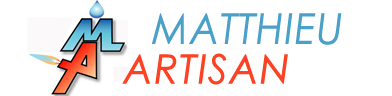
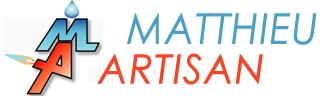
upd

diff --git a/MA/index.html b/MA/index.html
@@ -53,12 +53,51 @@
             align-items: center;
         }
 
-        /* Logo affiché 2 fois plus petit (48px de haut max) */
+        /* Groupe Logo + Localisation/Tel */
+        .brand-group {
+            display: flex;
+            align-items: center;
+            gap: 0.8rem;
+        }
+
+        /* Logo affiché à 48px de haut max */
         .logo img {
             max-width: 100%;
-            height: auto;
-            max-height: 48px;
+            height: 48px;
+            width: auto;
             display: block;
+        }
+
+        /* Bloc à droite du logo (2 lignes compactes) */
+        .header-info-block {
+            display: flex;
+            flex-direction: column;
+            justify-content: center;
+            height: 48px; /* Égal à la hauteur du logo */
+            border-left: 2px solid var(--accent-turquoise);
+            padding-left: 0.8rem;
+            line-height: 1.25;
+        }
+
+        .header-location-tag {
+            font-size: 0.8rem;
+            font-weight: 600;
+            color: var(--primary-blue);
+            white-space: nowrap;
+            margin-bottom: 8px;
+        }
+
+        .header-phone-link {
+            font-size: 0.85rem;
+            font-weight: bold;
+            color: var(--action-orange);
+            text-decoration: none;
+            white-space: nowrap;
+            transition: color 0.2s;
+        }
+
+        .header-phone-link:hover {
+            color: var(--orange-hover);
         }
 
         /* Navigation */
@@ -110,21 +149,36 @@
         .hero-buttons {
             display: flex;
             justify-content: center;
+            align-items: center;
             gap: 1rem;
             flex-wrap: wrap;
         }
 
-        /* Boutons */
+        /* Style commun pour harmoniser la taille des 2 boutons */
+        .btn-hero {
+            display: inline-flex;
+            align-items: center;
+            justify-content: center;
+            min-width: 250px;
+            height: 52px;
+            padding: 0 1.5rem;
+            border-radius: 6px;
+            font-weight: bold;
+            font-size: 1.05rem;
+            text-decoration: none;
+            box-sizing: border-box;
+            transition: transform 0.2s, background-color 0.2s, color 0.2s;
+        }
+
+        .btn-hero svg {
+            margin-right: 8px;
+            flex-shrink: 0;
+        }
+
         .btn-call {
-            display: inline-block;
             background-color: var(--action-orange);
             color: white;
-            padding: 0.8rem 1.8rem;
-            border-radius: 6px;
-            text-decoration: none;
-            font-weight: bold;
-            font-size: 1.1rem;
-            transition: transform 0.2s, background-color 0.2s;
+            border: none;
             box-shadow: 0 4px 12px rgba(249, 115, 22, 0.35);
         }
 
@@ -134,22 +188,16 @@
         }
 
         .btn-zone {
-            display: inline-block;
             background-color: transparent;
             color: white;
             border: 2px solid white;
-            padding: 0.8rem 1.5rem;
-            border-radius: 6px;
-            text-decoration: none;
-            font-weight: 600;
-            font-size: 1.05rem;
             cursor: pointer;
-            transition: background-color 0.2s, color 0.2s;
         }
 
         .btn-zone:hover {
             background-color: white;
             color: var(--primary-blue);
+            transform: translateY(-2px);
         }
 
         /* Section Contenu Principal */
@@ -350,6 +398,18 @@
                 gap: 1rem;
             }
 
+            .brand-group {
+                flex-direction: column;
+                gap: 0.4rem;
+            }
+
+            .header-info-block {
+                height: auto;
+                border-left: none;
+                padding-left: 0;
+                text-align: center;
+            }
+
             nav ul {
                 flex-wrap: wrap;
                 justify-content: center;
@@ -370,6 +430,11 @@
                 max-width: 280px;
                 margin: 0 auto;
             }
+
+            .btn-hero {
+                width: 100%;
+                max-width: 300px;
+            }
         }
     </style>
 </head>
@@ -378,9 +443,15 @@
     <!-- En-tête / Navigation -->
     <header>
         <div class="header-container">
-            <a href="index.html" class="logo">
-                <img src="matthieu-artisan.jpg" alt="Matthieu Artisan - Plomberie" width="196" height="48">
-            </a>
+            <div class="brand-group">
+                <a href="index.html" class="logo">
+                    <img src="matthieu-artisan.jpg" alt="Matthieu Artisan - Plomberie" width="325" height="96">
+                </a>
+                <div class="header-info-block">
+                    <span class="header-location-tag">📍 Vallée d’Azergues (69)</span>
+                    <a href="tel:0478470662" class="header-phone-link">📞 04 78 470 662</a>
+                </div>
+            </div>
             <nav>
                 <ul>
                     <li><a href="specialites.html">Nos Spécialités</a></li>
@@ -397,8 +468,13 @@
         <p class="location-tag">Basé dans la Vallée d’Azergues & secteurs limitrophes</p>
         <p>Intervention rapide, installation et entretien de vos équipements sanitaires avec le savoir-faire d'un artisan local.</p>
         <div class="hero-buttons">
-            <a href="tel:0478470662" class="btn-call">📞 Appelez 04 78 470 662</a>
-            <button class="btn-zone" onclick="openModal()">📍 Zone de couverture</button>
+            <a href="tel:0478470662" class="btn-hero btn-call">
+                <svg xmlns="http://www.w3.org/2000/svg" width="20" height="20" viewBox="0 0 24 24" fill="currentColor">
+                    <path d="M6.62 10.79a15.053 15.053 0 006.59 6.59l2.2-2.2c.27-.27.67-.36 1.02-.24 1.12.37 2.33.57 3.57.57.55 0 1 .45 1 1V20c0 .55-.45 1-1 1-9.39 0-17-7.61-17-17 0-.55.45-1 1-1h3.5c.55 0 1 .45 1 1 0 1.25.2 2.45.57 3.57.11.35.03.74-.25 1.02l-2.2 2.2z"/>
+                </svg>
+                04 78 470 662
+            </a>
+            <button class="btn-hero btn-zone" onclick="openModal()">📍 Zone de couverture</button>
         </div>
     </section>
 
